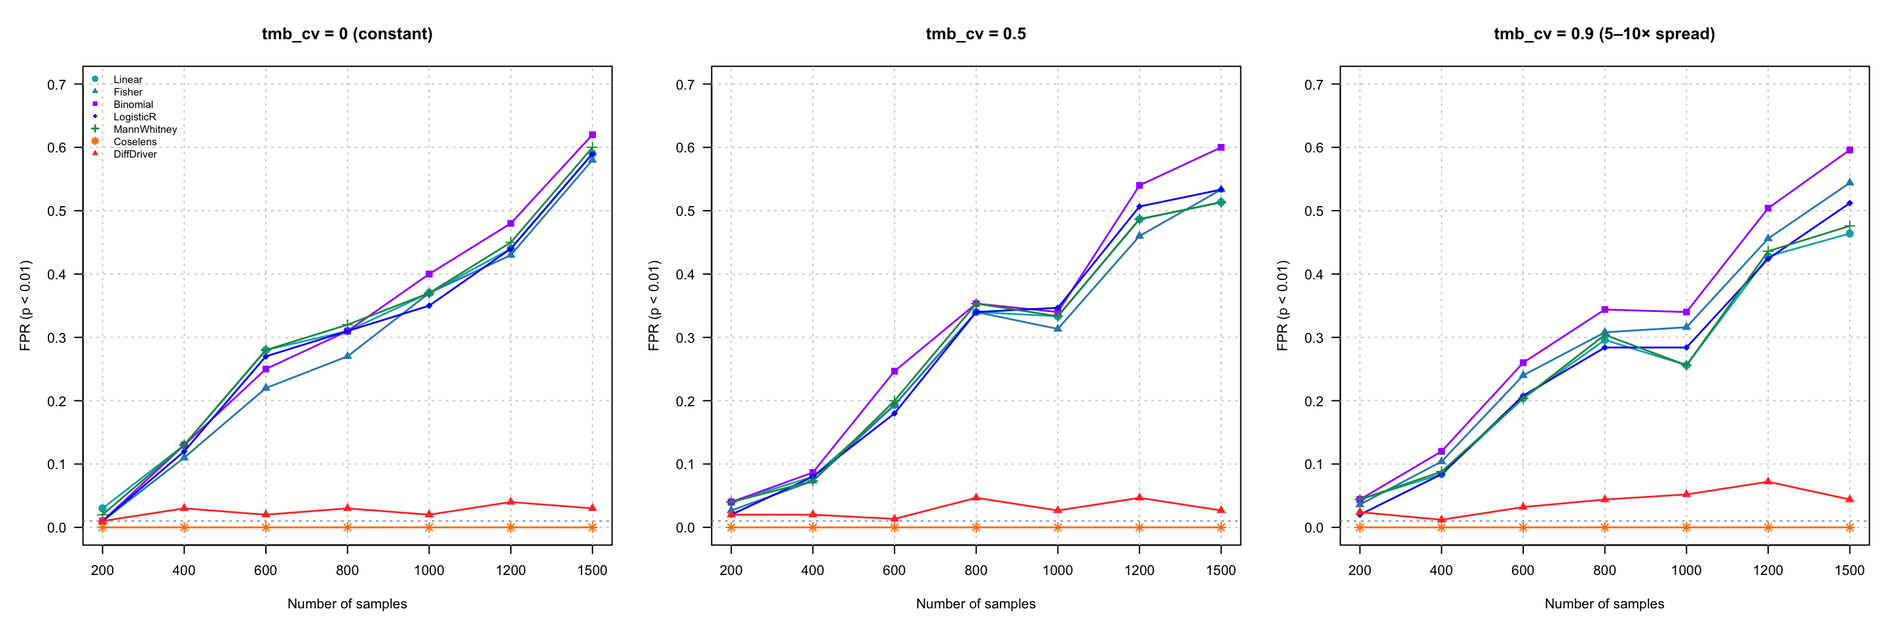
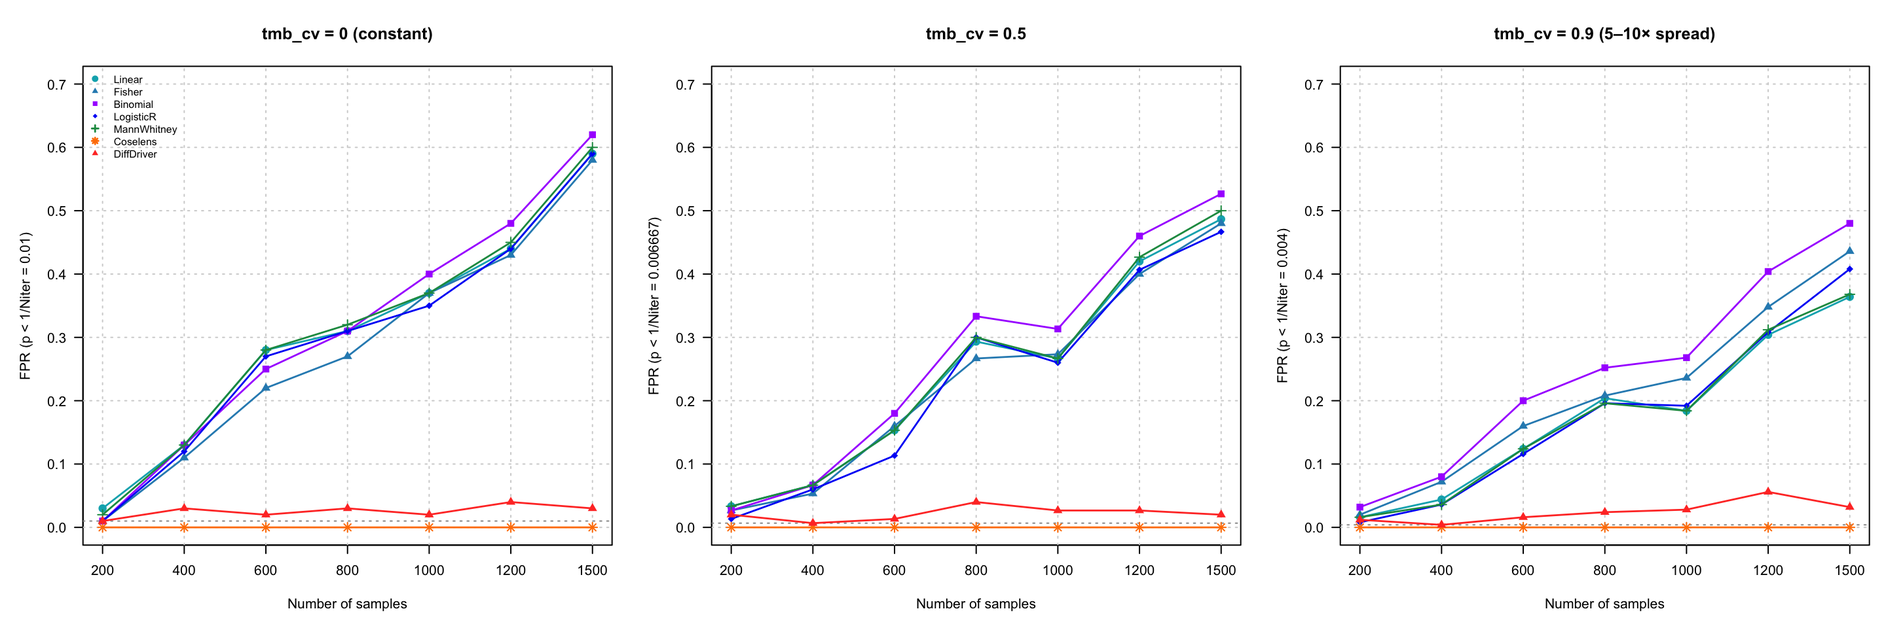
Assess FPR at alpha = 1/Niter (Monte-Carlo-resolution threshold)
Use a significance cutoff of alpha = 1/Niter per panel (the finest level
resolvable with Niter iterations; a calibrated test expects one false positive),
instead of a fixed p<0.01. Reference line and axis labels now show each panel's
alpha (0.01 at 100 iters, 0.0067 at 150, 0.004 at 250, 0.02 at 50). Conclusions
unchanged; updated affected numbers: DiffDriver variable-burden max <=6% (was <=7%
at 0.01), continuous <=4% (looser 0.02 threshold), count-based unchanged. 100-iter
panels and the main Simulation-BMR page are numerically unchanged (1/100 = 0.01).

diff --git a/docs/Simulation-BMR-variations.html b/docs/Simulation-BMR-variations.html
@@ -633,15 +633,15 @@ project makes it easier to run your code on other machines.</p>
 <div class="panel panel-default">
 <div class="panel-heading">
 <p class="panel-title">
-<a data-toggle="collapse" data-parent="#workflowr-checks" href="#strongRepositoryversionstrongahrefhttpsgithubcomszhaolabDiffDriverPAPERtree24f536118b4112801e99c02b93eb6101e2579ea9targetblank24f5361a">
+<a data-toggle="collapse" data-parent="#workflowr-checks" href="#strongRepositoryversionstrongahrefhttpsgithubcomszhaolabDiffDriverPAPERtreecefd056cdf1ceb7c2950c221e951dc0f9ba1e165targetblankcefd056a">
 <span class="glyphicon glyphicon-ok text-success"
 aria-hidden="true"></span> <strong>Repository version:</strong>
-<a href="https://github.com/szhaolab/DiffDriver-PAPER/tree/24f536118b4112801e99c02b93eb6101e2579ea9" target="_blank">24f5361</a>
+<a href="https://github.com/szhaolab/DiffDriver-PAPER/tree/cefd056cdf1ceb7c2950c221e951dc0f9ba1e165" target="_blank">cefd056</a>
 </a>
 </p>
 </div>
 <div
[2 lines of base64/hex data omitted]
 class="panel-collapse collapse">
 <div class="panel-body">
 <p>
@@ -651,7 +651,7 @@ reproducibility.
 </p>
 <p>
 The results in this page were generated with repository version
-<a href="https://github.com/szhaolab/DiffDriver-PAPER/tree/24f536118b4112801e99c02b93eb6101e2579ea9" target="_blank">24f5361</a>.
+<a href="https://github.com/szhaolab/DiffDriver-PAPER/tree/cefd056cdf1ceb7c2950c221e951dc0f9ba1e165" target="_blank">cefd056</a>.
 See the <em>Past versions</em> tab to see a history of the changes made
 to the R Markdown and HTML files.
 </p>
@@ -678,9 +678,7 @@ Untracked files:
 
 Unstaged changes:
     Modified:   analysis/Simulation-BMR-variations.Rmd
-    Modified:   code/consolidate_bmr_variations.R
-    Modified:   code/simulate_bmr_variations.R
-    Modified:   data/pppower_bmr_variations.Rd
+    Modified:   analysis/Simulation-BMR.Rmd
 
 </code></pre>
 <p>
@@ -726,6 +724,40 @@ Message
 </tr>
 </thead>
 <tbody>
+<tr>
+<td>
+Rmd
+</td>
+<td>
+<a href="https://github.com/szhaolab/DiffDriver-PAPER/blob/cefd056cdf1ceb7c2950c221e951dc0f9ba1e165/analysis/Simulation-BMR-variations.Rmd" target="_blank">cefd056</a>
+</td>
+<td>
+Siming
+</td>
+<td>
+2026-07-26
+</td>
+<td>
+Add iterations to variable-burden variations to reduce noise
+</td>
+</tr>
+<tr>
+<td>
+html
+</td>
+<td>
+<a href="https://rawcdn.githack.com/szhaolab/DiffDriver-PAPER/cefd056cdf1ceb7c2950c221e951dc0f9ba1e165/docs/Simulation-BMR-variations.html" target="_blank">cefd056</a>
+</td>
+<td>
+Siming
+</td>
+<td>
+2026-07-26
+</td>
+<td>
+Add iterations to variable-burden variations to reduce noise
+</td>
+</tr>
 <tr>
 <td>
 Rmd
@@ -856,8 +888,12 @@ it from a per-cohort simulated silent (synonymous) count matrix
 <code>N_syn</code> per site), exactly as on real data. Each variation
 reruns the full 7-method benchmark (100 iterations — 150 and 250 for the
 two variable-burden settings, 50 for the continuous variant) over N =
-200–1500 and we plot the false-positive rate (FPR, p &lt; 0.01)
-vs. sample size.</p>
+200–1500 and we plot the false-positive rate (FPR) vs. sample size. FPR
+is assessed at a significance threshold <strong>α = 1/Niter</strong> —
+the finest level resolvable with <code>Niter</code> iterations, at which
+a well-calibrated test yields an expected one false positive — so the
+dashed reference line marks the calibrated level for each panel (0.01 at
+100 iterations, 0.0067 at 150, 0.004 at 250, 0.02 at 50).</p>
 <p>The knobs live in <code>code/simulate_functions.R</code>
 (<code>build_confounded_bmr</code>’s <code>tmb_cv</code> for per-sample
 burden; <code>simulate_confounding</code>’s <code>binary = FALSE</code>
@@ -870,15 +906,19 @@ strength), the estimated-background helpers in
 <span id="cb2-3"><a href="#cb2-3" tabindex="-1"></a>MCOL <span class="ot">&lt;-</span> <span class="fu">c</span>(<span class="at">Linear=</span><span class="st">&quot;#00AFBB&quot;</span>, <span class="at">Fisher=</span><span class="st">&quot;#2b8cbe&quot;</span>, <span class="at">Binomial=</span><span class="st">&quot;#aa00ff&quot;</span>, <span class="at">LogisticR=</span><span class="st">&quot;#0001f6&quot;</span>,</span>
 <span id="cb2-4"><a href="#cb2-4" tabindex="-1"></a>          <span class="at">MannWhitney=</span><span class="st">&quot;#1a9850&quot;</span>, <span class="at">Coselens=</span><span class="st">&quot;#ff7f00&quot;</span>, <span class="at">DiffDriver=</span><span class="st">&quot;#FF3D2E&quot;</span>)</span>
 <span id="cb2-5"><a href="#cb2-5" tabindex="-1"></a>MPCH <span class="ot">&lt;-</span> <span class="fu">c</span>(<span class="at">Linear=</span><span class="dv">19</span>, <span class="at">Fisher=</span><span class="dv">17</span>, <span class="at">Binomial=</span><span class="dv">15</span>, <span class="at">LogisticR=</span><span class="dv">18</span>, <span class="at">MannWhitney=</span><span class="dv">3</span>, <span class="at">Coselens=</span><span class="dv">8</span>, <span class="at">DiffDriver=</span><span class="dv">17</span>)</span>
-<span id="cb2-6"><a href="#cb2-6" tabindex="-1"></a>fp_by_size <span class="ot">&lt;-</span> <span class="cf">function</span>(vlist, m) <span class="fu">sapply</span>(vlist, <span class="cf">function</span>(d) <span class="cf">if</span> (<span class="fu">is.null</span>(d)) <span class="cn">NA</span> <span class="cf">else</span> <span class="fu">mean</span>(d[[m]] <span class="sc">&lt;</span> <span class="fl">0.01</span>, <span class="at">na.rm =</span> <span class="cn">TRUE</span>))</span>
-<span id="cb2-7"><a href="#cb2-7" tabindex="-1"></a>plot_fp <span class="ot">&lt;-</span> <span class="cf">function</span>(vlist, <span class="at">title =</span> <span class="st">&quot;&quot;</span>, <span class="at">methods =</span> <span class="fu">names</span>(MCOL), <span class="at">legend =</span> <span class="cn">TRUE</span>, <span class="at">ymax =</span> <span class="fl">0.7</span>) {</span>
-<span id="cb2-8"><a href="#cb2-8" tabindex="-1"></a>  x <span class="ot">&lt;-</span> <span class="fu">seq_along</span>(SIZES)</span>
-<span id="cb2-9"><a href="#cb2-9" tabindex="-1"></a>  <span class="fu">plot</span>(<span class="cn">NA</span>, <span class="at">xlim =</span> <span class="fu">c</span>(<span class="dv">1</span>, <span class="fu">length</span>(SIZES)), <span class="at">ylim =</span> <span class="fu">c</span>(<span class="dv">0</span>, ymax), <span class="at">xaxt =</span> <span class="st">&quot;n&quot;</span>,</span>
-<span id="cb2-10"><a href="#cb2-10" tabindex="-1"></a>       <span class="at">xlab =</span> <span class="st">&quot;Number of samples&quot;</span>, <span class="at">ylab =</span> <span class="st">&quot;FPR (p &lt; 0.01)&quot;</span>, <span class="at">main =</span> title, <span class="at">las =</span> <span class="dv">1</span>)</span>
-<span id="cb2-11"><a href="#cb2-11" tabindex="-1"></a>  <span class="fu">axis</span>(<span class="dv">1</span>, x, SIZES); <span class="fu">grid</span>(); <span class="fu">abline</span>(<span class="at">h =</span> <span class="fl">0.01</span>, <span class="at">lty =</span> <span class="dv">3</span>, <span class="at">col =</span> <span class="st">&quot;grey60&quot;</span>)</span>
-<span id="cb2-12"><a href="#cb2-12" tabindex="-1"></a>  <span class="cf">for</span> (m <span class="cf">in</span> methods) { y <span class="ot">&lt;-</span> <span class="fu">fp_by_size</span>(vlist, m); <span class="fu">lines</span>(x, y, <span class="at">col =</span> MCOL[m], <span class="at">lwd =</span> <span class="fl">1.4</span>); <span class="fu">points</span>(x, y, <span class="at">col =</span> MCOL[m], <span class="at">pch =</span> MPCH[m], <span class="at">cex =</span> <span class="fl">1.1</span>) }</span>
-<span id="cb2-13"><a href="#cb2-13" tabindex="-1"></a>  <span class="cf">if</span> (legend) <span class="fu">legend</span>(<span class="st">&quot;topleft&quot;</span>, methods, <span class="at">col =</span> MCOL[methods], <span class="at">pch =</span> MPCH[methods], <span class="at">lwd =</span> <span class="fl">1.4</span>, <span class="at">lty =</span> <span class="cn">NA</span>, <span class="at">bty =</span> <span class="st">&quot;n&quot;</span>, <span class="at">cex =</span> <span class="fl">0.75</span>)</span>
-<span id="cb2-14"><a href="#cb2-14" tabindex="-1"></a>}</span></code></pre></div>
+<span id="cb2-6"><a href="#cb2-6" tabindex="-1"></a><span class="co"># Significance threshold alpha = 1/Niter: the finest level resolvable with Niter</span></span>
+<span id="cb2-7"><a href="#cb2-7" tabindex="-1"></a><span class="co"># iterations (a calibrated test then yields an expected one false positive), so the</span></span>
+<span id="cb2-8"><a href="#cb2-8" tabindex="-1"></a><span class="co"># dashed reference line marks the calibrated level for each panel.</span></span>
+<span id="cb2-9"><a href="#cb2-9" tabindex="-1"></a>alpha_of <span class="ot">&lt;-</span> <span class="cf">function</span>(vlist) { nn <span class="ot">&lt;-</span> <span class="fu">vapply</span>(vlist, <span class="cf">function</span>(d) <span class="cf">if</span> (<span class="fu">is.null</span>(d)) <span class="cn">NA_integer_</span> <span class="cf">else</span> <span class="fu">nrow</span>(d), <span class="fu">integer</span>(<span class="dv">1</span>)); <span class="dv">1</span><span class="sc">/</span>stats<span class="sc">::</span><span class="fu">median</span>(nn, <span class="at">na.rm =</span> <span class="cn">TRUE</span>) }</span>
+<span id="cb2-10"><a href="#cb2-10" tabindex="-1"></a>fp_by_size <span class="ot">&lt;-</span> <span class="cf">function</span>(vlist, m) <span class="fu">sapply</span>(vlist, <span class="cf">function</span>(d) <span class="cf">if</span> (<span class="fu">is.null</span>(d)) <span class="cn">NA</span> <span class="cf">else</span> <span class="fu">mean</span>(d[[m]] <span class="sc">&lt;</span> <span class="dv">1</span><span class="sc">/</span><span class="fu">nrow</span>(d), <span class="at">na.rm =</span> <span class="cn">TRUE</span>))</span>
+<span id="cb2-11"><a href="#cb2-11" tabindex="-1"></a>plot_fp <span class="ot">&lt;-</span> <span class="cf">function</span>(vlist, <span class="at">title =</span> <span class="st">&quot;&quot;</span>, <span class="at">methods =</span> <span class="fu">names</span>(MCOL), <span class="at">legend =</span> <span class="cn">TRUE</span>, <span class="at">ymax =</span> <span class="fl">0.7</span>) {</span>
+<span id="cb2-12"><a href="#cb2-12" tabindex="-1"></a>  x <span class="ot">&lt;-</span> <span class="fu">seq_along</span>(SIZES); al <span class="ot">&lt;-</span> <span class="fu">alpha_of</span>(vlist)</span>
+<span id="cb2-13"><a href="#cb2-13" tabindex="-1"></a>  <span class="fu">plot</span>(<span class="cn">NA</span>, <span class="at">xlim =</span> <span class="fu">c</span>(<span class="dv">1</span>, <span class="fu">length</span>(SIZES)), <span class="at">ylim =</span> <span class="fu">c</span>(<span class="dv">0</span>, ymax), <span class="at">xaxt =</span> <span class="st">&quot;n&quot;</span>,</span>
+<span id="cb2-14"><a href="#cb2-14" tabindex="-1"></a>       <span class="at">xlab =</span> <span class="st">&quot;Number of samples&quot;</span>, <span class="at">ylab =</span> <span class="fu">sprintf</span>(<span class="st">&quot;FPR (p &lt; 1/Niter = %.4g)&quot;</span>, al), <span class="at">main =</span> title, <span class="at">las =</span> <span class="dv">1</span>)</span>
+<span id="cb2-15"><a href="#cb2-15" tabindex="-1"></a>  <span class="fu">axis</span>(<span class="dv">1</span>, x, SIZES); <span class="fu">grid</span>(); <span class="fu">abline</span>(<span class="at">h =</span> al, <span class="at">lty =</span> <span class="dv">3</span>, <span class="at">col =</span> <span class="st">&quot;grey60&quot;</span>)</span>
+<span id="cb2-16"><a href="#cb2-16" tabindex="-1"></a>  <span class="cf">for</span> (m <span class="cf">in</span> methods) { y <span class="ot">&lt;-</span> <span class="fu">fp_by_size</span>(vlist, m); <span class="fu">lines</span>(x, y, <span class="at">col =</span> MCOL[m], <span class="at">lwd =</span> <span class="fl">1.4</span>); <span class="fu">points</span>(x, y, <span class="at">col =</span> MCOL[m], <span class="at">pch =</span> MPCH[m], <span class="at">cex =</span> <span class="fl">1.1</span>) }</span>
+<span id="cb2-17"><a href="#cb2-17" tabindex="-1"></a>  <span class="cf">if</span> (legend) <span class="fu">legend</span>(<span class="st">&quot;topleft&quot;</span>, methods, <span class="at">col =</span> MCOL[methods], <span class="at">pch =</span> MPCH[methods], <span class="at">lwd =</span> <span class="fl">1.4</span>, <span class="at">lty =</span> <span class="cn">NA</span>, <span class="at">bty =</span> <span class="st">&quot;n&quot;</span>, <span class="at">cex =</span> <span class="fl">0.75</span>)</span>
+<span id="cb2-18"><a href="#cb2-18" tabindex="-1"></a>}</span></code></pre></div>
 </div>
 <div id="baseline" class="section level2">
 <h2>Baseline</h2>
@@ -979,6 +1019,17 @@ Date
 </tr>
 </thead>
 <tbody>
+<tr>
+<td>
+<a href="https://github.com/szhaolab/DiffDriver-PAPER/blob/cefd056cdf1ceb7c2950c221e951dc0f9ba1e165/docs/figure/Simulation-BMR-variations.Rmd/burden-1.png" target="_blank">cefd056</a>
+</td>
+<td>
+Siming
+</td>
+<td>
+2026-07-26
+</td>
+</tr>
 <tr>
 <td>
 <a href="https://github.com/szhaolab/DiffDriver-PAPER/blob/3f9450ac554000281418889e9b9162180202709b/docs/figure/Simulation-BMR-variations.Rmd/burden-1.png" target="_blank">3f9450a</a>
@@ -1082,9 +1133,11 @@ count-based methods dichotomize the phenotype at its mean (as in the
 power simulation), Coselens splits at the median, and DiffDriver uses
 the continuous <code>ddmodel</code>.</p>
 <p><strong>Result:</strong> the confounding still fools the count-based
-methods (rising toward ~40% at N = 1500 — somewhat lower than the binary
-case because the dichotomization discards the continuous gradient),
-while DiffDriver (≤ 2%) and Coselens (≈ 0%) stay controlled.</p>
+methods (rising toward ~40–55% at N = 1500 — somewhat lower than the
+binary case because the dichotomization discards the continuous
+gradient), while DiffDriver (≤ 4%) and Coselens (≈ 0%) stay controlled.
+(This variant uses 50 iterations, so its threshold α = 1/50 = 0.02 is
+the loosest of the panels.)</p>
 <div class="sourceCode" id="cb6"><pre class="sourceCode r"><code class="sourceCode r"><span id="cb6-1"><a href="#cb6-1" tabindex="-1"></a><span class="fu">plot_fp</span>(bmrvar<span class="sc">$</span>partA<span class="sc">$</span>continuous, <span class="st">&quot;Continuous phenotype, R² = 0.78&quot;</span>)</span></code></pre></div>
 <p><img src="figure/Simulation-BMR-variations.Rmd/continuous-1.png" alt="" width="576" style="display: block; margin: auto;" /></p>
 <p>
@@ -1143,15 +1196,16 @@ signatures, versus the true 6, all keep the FPR at ~1–4% across sample
 sizes. The signature-count choice is not a fragile knob.</p>
 <div class="sourceCode" id="cb7"><pre class="sourceCode r"><code class="sourceCode r"><span id="cb7-1"><a href="#cb7-1" tabindex="-1"></a>ks <span class="ot">&lt;-</span> <span class="fu">names</span>(bmrvar<span class="sc">$</span>partB); kcols <span class="ot">&lt;-</span> <span class="fu">c</span>(<span class="st">&quot;#1b9e77&quot;</span>,<span class="st">&quot;#d95f02&quot;</span>,<span class="st">&quot;#7570b3&quot;</span>,<span class="st">&quot;#e7298a&quot;</span>,<span class="st">&quot;#66a61e&quot;</span>)</span>
 <span id="cb7-2"><a href="#cb7-2" tabindex="-1"></a>x <span class="ot">&lt;-</span> <span class="fu">seq_along</span>(SIZES)</span>
-<span id="cb7-3"><a href="#cb7-3" tabindex="-1"></a><span class="fu">plot</span>(<span class="cn">NA</span>, <span class="at">xlim =</span> <span class="fu">c</span>(<span class="dv">1</span>, <span class="fu">length</span>(SIZES)), <span class="at">ylim =</span> <span class="fu">c</span>(<span class="dv">0</span>, <span class="fl">0.15</span>), <span class="at">xaxt =</span> <span class="st">&quot;n&quot;</span>,</span>
-<span id="cb7-4"><a href="#cb7-4" tabindex="-1"></a>     <span class="at">xlab =</span> <span class="st">&quot;Number of samples&quot;</span>, <span class="at">ylab =</span> <span class="st">&quot;DiffDriver FPR (p &lt; 0.01)&quot;</span>,</span>
-<span id="cb7-5"><a href="#cb7-5" tabindex="-1"></a>     <span class="at">main =</span> <span class="st">&quot;Estimated background: robustness to # signatures (true = 6)&quot;</span>, <span class="at">las =</span> <span class="dv">1</span>)</span>
-<span id="cb7-6"><a href="#cb7-6" tabindex="-1"></a><span class="fu">axis</span>(<span class="dv">1</span>, x, SIZES); <span class="fu">grid</span>(); <span class="fu">abline</span>(<span class="at">h =</span> <span class="fl">0.01</span>, <span class="at">lty =</span> <span class="dv">3</span>, <span class="at">col =</span> <span class="st">&quot;grey60&quot;</span>)</span>
-<span id="cb7-7"><a href="#cb7-7" tabindex="-1"></a><span class="cf">for</span> (i <span class="cf">in</span> <span class="fu">seq_along</span>(ks)) {</span>
-<span id="cb7-8"><a href="#cb7-8" tabindex="-1"></a>  y <span class="ot">&lt;-</span> <span class="fu">sapply</span>(bmrvar<span class="sc">$</span>partB[[ks[i]]], <span class="cf">function</span>(d) <span class="fu">mean</span>(d<span class="sc">$</span>diff_est <span class="sc">&lt;</span> <span class="fl">0.01</span>, <span class="at">na.rm =</span> <span class="cn">TRUE</span>))</span>
-<span id="cb7-9"><a href="#cb7-9" tabindex="-1"></a>  <span class="fu">lines</span>(x, y, <span class="at">col =</span> kcols[i], <span class="at">lwd =</span> <span class="fl">1.5</span>); <span class="fu">points</span>(x, y, <span class="at">col =</span> kcols[i], <span class="at">pch =</span> <span class="dv">19</span>)</span>
-<span id="cb7-10"><a href="#cb7-10" tabindex="-1"></a>}</span>
-<span id="cb7-11"><a href="#cb7-11" tabindex="-1"></a><span class="fu">legend</span>(<span class="st">&quot;topleft&quot;</span>, <span class="fu">paste</span>(<span class="st">&quot;k =&quot;</span>, <span class="fu">sub</span>(<span class="st">&quot;k&quot;</span>, <span class="st">&quot;&quot;</span>, ks)), <span class="at">col =</span> kcols, <span class="at">pch =</span> <span class="dv">19</span>, <span class="at">lwd =</span> <span class="fl">1.5</span>, <span class="at">bty =</span> <span class="st">&quot;n&quot;</span>)</span></code></pre></div>
+<span id="cb7-3"><a href="#cb7-3" tabindex="-1"></a>al <span class="ot">&lt;-</span> <span class="dv">1</span><span class="sc">/</span><span class="fu">median</span>(<span class="fu">sapply</span>(bmrvar<span class="sc">$</span>partB[[<span class="dv">1</span>]], nrow))   <span class="co"># alpha = 1/Niter (100 iters -&gt; 0.01)</span></span>
+<span id="cb7-4"><a href="#cb7-4" tabindex="-1"></a><span class="fu">plot</span>(<span class="cn">NA</span>, <span class="at">xlim =</span> <span class="fu">c</span>(<span class="dv">1</span>, <span class="fu">length</span>(SIZES)), <span class="at">ylim =</span> <span class="fu">c</span>(<span class="dv">0</span>, <span class="fl">0.15</span>), <span class="at">xaxt =</span> <span class="st">&quot;n&quot;</span>,</span>
+<span id="cb7-5"><a href="#cb7-5" tabindex="-1"></a>     <span class="at">xlab =</span> <span class="st">&quot;Number of samples&quot;</span>, <span class="at">ylab =</span> <span class="fu">sprintf</span>(<span class="st">&quot;DiffDriver FPR (p &lt; 1/Niter = %.4g)&quot;</span>, al),</span>
+<span id="cb7-6"><a href="#cb7-6" tabindex="-1"></a>     <span class="at">main =</span> <span class="st">&quot;Estimated background: robustness to # signatures (true = 6)&quot;</span>, <span class="at">las =</span> <span class="dv">1</span>)</span>
+<span id="cb7-7"><a href="#cb7-7" tabindex="-1"></a><span class="fu">axis</span>(<span class="dv">1</span>, x, SIZES); <span class="fu">grid</span>(); <span class="fu">abline</span>(<span class="at">h =</span> al, <span class="at">lty =</span> <span class="dv">3</span>, <span class="at">col =</span> <span class="st">&quot;grey60&quot;</span>)</span>
+<span id="cb7-8"><a href="#cb7-8" tabindex="-1"></a><span class="cf">for</span> (i <span class="cf">in</span> <span class="fu">seq_along</span>(ks)) {</span>
+<span id="cb7-9"><a href="#cb7-9" tabindex="-1"></a>  y <span class="ot">&lt;-</span> <span class="fu">sapply</span>(bmrvar<span class="sc">$</span>partB[[ks[i]]], <span class="cf">function</span>(d) <span class="fu">mean</span>(d<span class="sc">$</span>diff_est <span class="sc">&lt;</span> <span class="dv">1</span><span class="sc">/</span><span class="fu">nrow</span>(d), <span class="at">na.rm =</span> <span class="cn">TRUE</span>))</span>
+<span id="cb7-10"><a href="#cb7-10" tabindex="-1"></a>  <span class="fu">lines</span>(x, y, <span class="at">col =</span> kcols[i], <span class="at">lwd =</span> <span class="fl">1.5</span>); <span class="fu">points</span>(x, y, <span class="at">col =</span> kcols[i], <span class="at">pch =</span> <span class="dv">19</span>)</span>
+<span id="cb7-11"><a href="#cb7-11" tabindex="-1"></a>}</span>
+<span id="cb7-12"><a href="#cb7-12" tabindex="-1"></a><span class="fu">legend</span>(<span class="st">&quot;topleft&quot;</span>, <span class="fu">paste</span>(<span class="st">&quot;k =&quot;</span>, <span class="fu">sub</span>(<span class="st">&quot;k&quot;</span>, <span class="st">&quot;&quot;</span>, ks)), <span class="at">col =</span> kcols, <span class="at">pch =</span> <span class="dv">19</span>, <span class="at">lwd =</span> <span class="fl">1.5</span>, <span class="at">bty =</span> <span class="st">&quot;n&quot;</span>)</span></code></pre></div>
 <p><img src="figure/Simulation-BMR-variations.Rmd/sigk-1.png" alt="" width="576" style="display: block; margin: auto;" /></p>
 <p>
 <button type="button" class="btn btn-default btn-xs btn-workflowr btn-workflowr-fig" data-toggle="collapse" data-target="#fig-sigk-1">
@@ -1196,6 +1250,8 @@ Siming
 <p>All methods <strong>estimate</strong> the background from the
 simulated silent count matrix (Coselens via <code>N_syn/Lsyn96</code>,
 DiffDriver via fastTopics), as on real data.</p>
+<p>FPR is measured at α = 1/Niter (see Overview); the “≈0%” / “≤x%”
+figures below are the maxima across N at that per-panel threshold.</p>
 <table>
 <colgroup>
 <col width="25%" />
@@ -1222,7 +1278,7 @@ DiffDriver via fastTopics), as on real data.</p>
 <td>Variable burden (tmb_cv 0.5, 0.9)</td>
 <td>still false-positive (~50–60%)</td>
 <td>controlled (≈0%)</td>
-<td>controlled (≤7%)</td>
+<td>controlled (≤6%)</td>
 </tr>
 <tr class="odd">
 <td>Confounding strength R²</td>
@@ -1232,9 +1288,9 @@ DiffDriver via fastTopics), as on real data.</p>
 </tr>
 <tr class="even">
 <td>Continuous phenotype</td>
-<td>false-positive (→~40%)</td>
+<td>false-positive (→~40–55%)</td>
 <td>controlled (≈0%)</td>
-<td>controlled (≤2%)</td>
+<td>controlled (≤4%)</td>
 </tr>
 <tr class="odd">
 <td># signatures (estimated bkg)</td>

diff --git a/docs/Simulation-BMR.html b/docs/Simulation-BMR.html
@@ -633,15 +633,15 @@ project makes it easier to run your code on other machines.</p>
 <div class="panel panel-default">
 <div class="panel-heading">
 <p class="panel-title">
-<a data-toggle="collapse" data-parent="#workflowr-checks" href="#strongRepositoryversionstrongahrefhttpsgithubcomszhaolabDiffDriverPAPERtreedfa3eb4ccb2daac76127e4f2ba68bdbec33204c8targetblankdfa3eb4a">
+<a data-toggle="collapse" data-parent="#workflowr-checks" href="#strongRepositoryversionstrongahrefhttpsgithubcomszhaolabDiffDriverPAPERtreecefd056cdf1ceb7c2950c221e951dc0f9ba1e165targetblankcefd056a">
 <span class="glyphicon glyphicon-ok text-success"
 aria-hidden="true"></span> <strong>Repository version:</strong>
-<a href="https://github.com/szhaolab/DiffDriver-PAPER/tree/dfa3eb4ccb2daac76127e4f2ba68bdbec33204c8" target="_blank">dfa3eb4</a>
+<a href="https://github.com/szhaolab/DiffDriver-PAPER/tree/cefd056cdf1ceb7c2950c221e951dc0f9ba1e165" target="_blank">cefd056</a>
 </a>
 </p>
 </div>
 <div
[2 lines of base64/hex data omitted]
 class="panel-collapse collapse">
 <div class="panel-body">
 <p>
@@ -651,7 +651,7 @@ reproducibility.
 </p>
 <p>
 The results in this page were generated with repository version
-<a href="https://github.com/szhaolab/DiffDriver-PAPER/tree/dfa3eb4ccb2daac76127e4f2ba68bdbec33204c8" target="_blank">dfa3eb4</a>.
+<a href="https://github.com/szhaolab/DiffDriver-PAPER/tree/cefd056cdf1ceb7c2950c221e951dc0f9ba1e165" target="_blank">cefd056</a>.
 See the <em>Past versions</em> tab to see a history of the changes made
 to the R Markdown and HTML files.
 </p>
@@ -679,7 +679,6 @@ Untracked files:
 Unstaged changes:
     Modified:   analysis/Simulation-BMR-variations.Rmd
     Modified:   analysis/Simulation-BMR.Rmd
-    Modified:   code/simulate_bmr_variations.R
 
 </code></pre>
 <p>
@@ -724,6 +723,40 @@ Message
 </tr>
 </thead>
 <tbody>
+<tr>
+<td>
+Rmd
+</td>
+<td>
+<a href="https://github.com/szhaolab/DiffDriver-PAPER/blob/2a3270efd6818b22acfc7cd58ea1db2f2b6cdacd/analysis/Simulation-BMR.Rmd" target="_blank">2a3270e</a>
+</td>
+<td>
+Siming
+</td>
+<td>
+2026-07-26
+</td>
+<td>
+Switch confounding main page to estimated background (drop true rate)
+</td>
+</tr>
+<tr>
+<td>
+html
+</td>
+<td>
+<a href="https://rawcdn.githack.com/szhaolab/DiffDriver-PAPER/2a3270efd6818b22acfc7cd58ea1db2f2b6cdacd/docs/Simulation-BMR.html" target="_blank">2a3270e</a>
+</td>
+<td>
+Siming
+</td>
+<td>
+2026-07-26
+</td>
+<td>
+Switch confounding main page to estimated background (drop true rate)
+</td>
+</tr>
 <tr>
 <td>
 Rmd
@@ -1217,34 +1250,74 @@ selection.</p>
 <span id="cb2-3"><a href="#cb2-3" tabindex="-1"></a><span class="fu">load</span>(<span class="st">&quot;data/pppower_estimatedBMR_bmr.Rd&quot;</span>)     <span class="co"># object `estBMR`, keyed by N (estimated background)</span></span>
 <span id="cb2-4"><a href="#cb2-4" tabindex="-1"></a><span class="fu">load</span>(<span class="st">&quot;data/pppower_mannwhitney_bmr.Rd&quot;</span>)      <span class="co"># object `mw`</span></span>
 <span id="cb2-5"><a href="#cb2-5" tabindex="-1"></a></span>
-<span id="cb2-6"><a href="#cb2-6" tabindex="-1"></a>fp   <span class="ot">&lt;-</span> <span class="cf">function</span>(p) <span class="fu">mean</span>(p <span class="sc">&lt;</span> <span class="fl">0.01</span>, <span class="at">na.rm =</span> <span class="cn">TRUE</span>)</span>
-<span id="cb2-7"><a href="#cb2-7" tabindex="-1"></a>rate <span class="ot">&lt;-</span> <span class="cf">function</span>(field) <span class="fu">sapply</span>(<span class="fu">as.character</span>(SIZES), <span class="cf">function</span>(n) <span class="fu">fp</span>(estBMR[[n]][[field]]))</span>
-<span id="cb2-8"><a href="#cb2-8" tabindex="-1"></a>cosE <span class="ot">&lt;-</span> <span class="fu">rate</span>(<span class="st">&quot;coselens_est&quot;</span>); ddE <span class="ot">&lt;-</span> <span class="fu">rate</span>(<span class="st">&quot;diff_est&quot;</span>)   <span class="co"># estimated-background methods</span></span>
-<span id="cb2-9"><a href="#cb2-9" tabindex="-1"></a></span>
-<span id="cb2-10"><a href="#cb2-10" tabindex="-1"></a><span class="co"># count-based benchmarks (do not use a background rate; from the archived runs)</span></span>
-<span id="cb2-11"><a href="#cb2-11" tabindex="-1"></a>lin <span class="ot">&lt;-</span> fis <span class="ot">&lt;-</span> bin <span class="ot">&lt;-</span> lr <span class="ot">&lt;-</span> mw_fp <span class="ot">&lt;-</span> <span class="fu">numeric</span>(<span class="fu">length</span>(SIZES))</span>
-<span id="cb2-12"><a href="#cb2-12" tabindex="-1"></a><span class="cf">for</span> (i <span class="cf">in</span> <span class="fu">seq_along</span>(SIZES)) {</span>
-<span id="cb2-13"><a href="#cb2-13" tabindex="-1"></a>  N <span class="ot">&lt;-</span> SIZES[i]</span>
-<span id="cb2-14"><a href="#cb2-14" tabindex="-1"></a>  o <span class="ot">&lt;-</span> <span class="fu">new.env</span>(); <span class="fu">load</span>(<span class="fu">sprintf</span>(<span class="st">&quot;data/bmr_archive/other/pppower_betaf0=1_sample%d_0.5_0.Rd&quot;</span>, N), <span class="at">envir =</span> o)</span>
-<span id="cb2-15"><a href="#cb2-15" tabindex="-1"></a>  s <span class="ot">&lt;-</span> o<span class="sc">$</span>simuresother</span>
-<span id="cb2-16"><a href="#cb2-16" tabindex="-1"></a>  lin[i] <span class="ot">&lt;-</span> <span class="fu">fp</span>(s<span class="sc">$</span>m1.pvalue); fis[i] <span class="ot">&lt;-</span> <span class="fu">fp</span>(s<span class="sc">$</span>m2.pvalue); bin[i] <span class="ot">&lt;-</span> <span class="fu">fp</span>(s<span class="sc">$</span>m3.pvalue); lr[i] <span class="ot">&lt;-</span> <span class="fu">fp</span>(s<span class="sc">$</span>m4.pvalue)</span>
-<span id="cb2-17"><a href="#cb2-17" tabindex="-1"></a>  mw_fp[i] <span class="ot">&lt;-</span> <span class="fu">fp</span>(mw[[<span class="fu">as.character</span>(N)]]<span class="sc">$</span>mannwhitney.pvalue)</span>
-<span id="cb2-18"><a href="#cb2-18" tabindex="-1"></a>}</span>
-<span id="cb2-19"><a href="#cb2-19" tabindex="-1"></a></span>
-<span id="cb2-20"><a href="#cb2-20" tabindex="-1"></a>outdt <span class="ot">&lt;-</span> <span class="fu">rbind</span>(<span class="at">Linear =</span> lin, <span class="at">Fisher =</span> fis, <span class="at">Binomial =</span> bin, <span class="at">LogisticR =</span> lr,</span>
-<span id="cb2-21"><a href="#cb2-21" tabindex="-1"></a>               <span class="at">MannWhitney =</span> mw_fp, <span class="at">Coselens =</span> cosE, <span class="at">DiffDriver =</span> ddE)</span>
-<span id="cb2-22"><a href="#cb2-22" tabindex="-1"></a><span class="fu">colnames</span>(outdt) <span class="ot">&lt;-</span> SIZES</span>
-<span id="cb2-23"><a href="#cb2-23" tabindex="-1"></a>mycol <span class="ot">&lt;-</span> <span class="fu">c</span>(<span class="st">&quot;#00AFBB&quot;</span>,<span class="st">&quot;#2b8cbe&quot;</span>,<span class="st">&quot;#aa00ff&quot;</span>,<span class="st">&quot;#0001f6&quot;</span>,<span class="st">&quot;#1a9850&quot;</span>,<span class="st">&quot;#ff7f00&quot;</span>,<span class="st">&quot;#FF3D2E&quot;</span>)</span>
-<span id="cb2-24"><a href="#cb2-24" tabindex="-1"></a>mypch <span class="ot">&lt;-</span> <span class="fu">c</span>(<span class="dv">19</span>,<span class="dv">19</span>,<span class="dv">19</span>,<span class="dv">19</span>,<span class="dv">3</span>,<span class="dv">8</span>,<span class="dv">17</span>)</span>
-<span id="cb2-25"><a href="#cb2-25" tabindex="-1"></a>x <span class="ot">&lt;-</span> <span class="fu">seq_along</span>(SIZES)</span>
-<span id="cb2-26"><a href="#cb2-26" tabindex="-1"></a><span class="fu">plot</span>(x, <span class="at">ylim =</span> <span class="fu">c</span>(<span class="dv">0</span>,<span class="dv">1</span>), <span class="at">col =</span> <span class="st">&quot;white&quot;</span>, <span class="at">ylab =</span> <span class="st">&quot;False positive rate (p &lt; 0.01)&quot;</span>,</span>
-<span id="cb2-27"><a href="#cb2-27" tabindex="-1"></a>     <span class="at">xlab =</span> <span class="st">&quot;Number of samples&quot;</span>, <span class="at">yaxt =</span> <span class="st">&quot;n&quot;</span>, <span class="at">xaxt =</span> <span class="st">&quot;n&quot;</span>)</span>
-<span id="cb2-28"><a href="#cb2-28" tabindex="-1"></a><span class="fu">title</span>(<span class="st">&quot;Phenotype–signature confounding (background estimated from silent mutations)&quot;</span>)</span>
-<span id="cb2-29"><a href="#cb2-29" tabindex="-1"></a><span class="fu">axis</span>(<span class="dv">2</span>, <span class="at">at =</span> <span class="fu">seq</span>(<span class="dv">0</span>,<span class="dv">1</span>,<span class="fl">0.1</span>), <span class="at">las =</span> <span class="dv">2</span>); <span class="fu">axis</span>(<span class="dv">1</span>, <span class="at">at =</span> x, <span class="at">labels =</span> SIZES); <span class="fu">grid</span>()</span>
-<span id="cb2-30"><a href="#cb2-30" tabindex="-1"></a><span class="fu">abline</span>(<span class="at">h =</span> <span class="fl">0.01</span>, <span class="at">lty =</span> <span class="dv">3</span>, <span class="at">col =</span> <span class="st">&quot;grey60&quot;</span>)</span>
-<span id="cb2-31"><a href="#cb2-31" tabindex="-1"></a><span class="cf">for</span> (r <span class="cf">in</span> <span class="dv">1</span><span class="sc">:</span><span class="dv">7</span>) { <span class="fu">lines</span>(x, outdt[r,], <span class="at">col =</span> mycol[r]); <span class="fu">points</span>(x, outdt[r,], <span class="at">col =</span> mycol[r], <span class="at">pch =</span> mypch[r], <span class="at">cex =</span> <span class="fl">1.3</span>) }</span>
-<span id="cb2-32"><a href="#cb2-32" tabindex="-1"></a><span class="fu">legend</span>(<span class="st">&quot;topleft&quot;</span>, <span class="fu">rownames</span>(outdt), <span class="at">col =</span> mycol, <span class="at">lwd =</span> <span class="dv">1</span>, <span class="at">bty =</span> <span class="st">&quot;n&quot;</span>, <span class="at">lty =</span> <span class="cn">NA</span>, <span class="at">pch =</span> mypch)</span></code></pre></div>
+<span id="cb2-6"><a href="#cb2-6" tabindex="-1"></a><span class="co"># significance threshold alpha = 1/Niter (Niter = 100 -&gt; 0.01): the finest level</span></span>
+<span id="cb2-7"><a href="#cb2-7" tabindex="-1"></a><span class="co"># resolvable with Niter iterations, where a calibrated test expects one false positive</span></span>
+<span id="cb2-8"><a href="#cb2-8" tabindex="-1"></a>alpha <span class="ot">&lt;-</span> <span class="dv">1</span><span class="sc">/</span>Nsim</span>
+<span id="cb2-9"><a href="#cb2-9" tabindex="-1"></a>fp   <span class="ot">&lt;-</span> <span class="cf">function</span>(p) <span class="fu">mean</span>(p <span class="sc">&lt;</span> alpha, <span class="at">na.rm =</span> <span class="cn">TRUE</span>)</span>
+<span id="cb2-10"><a href="#cb2-10" tabindex="-1"></a>rate <span class="ot">&lt;-</span> <span class="cf">function</span>(field) <span class="fu">sapply</span>(<span class="fu">as.character</span>(SIZES), <span class="cf">function</span>(n) <span class="fu">fp</span>(estBMR[[n]][[field]]))</span>
+<span id="cb2-11"><a href="#cb2-11" tabindex="-1"></a>cosE <span class="ot">&lt;-</span> <span class="fu">rate</span>(<span class="st">&quot;coselens_est&quot;</span>); ddE <span class="ot">&lt;-</span> <span class="fu">rate</span>(<span class="st">&quot;diff_est&quot;</span>)   <span class="co"># estimated-background methods</span></span>
+<span id="cb2-12"><a href="#cb2-12" tabindex="-1"></a></span>
+<span id="cb2-13"><a href="#cb2-13" tabindex="-1"></a><span class="co"># count-based benchmarks (do not use a background rate; from the archived runs)</span></span>
+<span id="cb2-14"><a href="#cb2-14" tabindex="-1"></a>lin <span class="ot">&lt;-</span> fis <span class="ot">&lt;-</span> bin <span class="ot">&lt;-</span> lr <span class="ot">&lt;-</span> mw_fp <span class="ot">&lt;-</span> <span class="fu">numeric</span>(<span class="fu">length</span>(SIZES))</span>
+<span id="cb2-15"><a href="#cb2-15" tabindex="-1"></a><span class="cf">for</span> (i <span class="cf">in</span> <span class="fu">seq_along</span>(SIZES)) {</span>
+<span id="cb2-16"><a href="#cb2-16" tabindex="-1"></a>  N <span class="ot">&lt;-</span> SIZES[i]</span>
+<span id="cb2-17"><a href="#cb2-17" tabindex="-1"></a>  o <span class="ot">&lt;-</span> <span class="fu">new.env</span>(); <span class="fu">load</span>(<span class="fu">sprintf</span>(<span class="st">&quot;data/bmr_archive/other/pppower_betaf0=1_sample%d_0.5_0.Rd&quot;</span>, N), <span class="at">envir =</span> o)</span>
+<span id="cb2-18"><a href="#cb2-18" tabindex="-1"></a>  s <span class="ot">&lt;-</span> o<span class="sc">$</span>simuresother</span>
+<span id="cb2-19"><a href="#cb2-19" tabindex="-1"></a>  lin[i] <span class="ot">&lt;-</span> <span class="fu">fp</span>(s<span class="sc">$</span>m1.pvalue); fis[i] <span class="ot">&lt;-</span> <span class="fu">fp</span>(s<span class="sc">$</span>m2.pvalue); bin[i] <span class="ot">&lt;-</span> <span class="fu">fp</span>(s<span class="sc">$</span>m3.pvalue); lr[i] <span class="ot">&lt;-</span> <span class="fu">fp</span>(s<span class="sc">$</span>m4.pvalue)</span>
+<span id="cb2-20"><a href="#cb2-20" tabindex="-1"></a>  mw_fp[i] <span class="ot">&lt;-</span> <span class="fu">fp</span>(mw[[<span class="fu">as.character</span>(N)]]<span class="sc">$</span>mannwhitney.pvalue)</span>
+<span id="cb2-21"><a href="#cb2-21" tabindex="-1"></a>}</span>
+<span id="cb2-22"><a href="#cb2-22" tabindex="-1"></a></span>
+<span id="cb2-23"><a href="#cb2-23" tabindex="-1"></a>outdt <span class="ot">&lt;-</span> <span class="fu">rbind</span>(<span class="at">Linear =</span> lin, <span class="at">Fisher =</span> fis, <span class="at">Binomial =</span> bin, <span class="at">LogisticR =</span> lr,</span>
+<span id="cb2-24"><a href="#cb2-24" tabindex="-1"></a>               <span class="at">MannWhitney =</span> mw_fp, <span class="at">Coselens =</span> cosE, <span class="at">DiffDriver =</span> ddE)</span>
+<span id="cb2-25"><a href="#cb2-25" tabindex="-1"></a><span class="fu">colnames</span>(outdt) <span class="ot">&lt;-</span> SIZES</span>
+<span id="cb2-26"><a href="#cb2-26" tabindex="-1"></a>mycol <span class="ot">&lt;-</span> <span class="fu">c</span>(<span class="st">&quot;#00AFBB&quot;</span>,<span class="st">&quot;#2b8cbe&quot;</span>,<span class="st">&quot;#aa00ff&quot;</span>,<span class="st">&quot;#0001f6&quot;</span>,<span class="st">&quot;#1a9850&quot;</span>,<span class="st">&quot;#ff7f00&quot;</span>,<span class="st">&quot;#FF3D2E&quot;</span>)</span>
+<span id="cb2-27"><a href="#cb2-27" tabindex="-1"></a>mypch <span class="ot">&lt;-</span> <span class="fu">c</span>(<span class="dv">19</span>,<span class="dv">19</span>,<span class="dv">19</span>,<span class="dv">19</span>,<span class="dv">3</span>,<span class="dv">8</span>,<span class="dv">17</span>)</span>
+<span id="cb2-28"><a href="#cb2-28" tabindex="-1"></a>x <span class="ot">&lt;-</span> <span class="fu">seq_along</span>(SIZES)</span>
+<span id="cb2-29"><a href="#cb2-29" tabindex="-1"></a><span class="fu">plot</span>(x, <span class="at">ylim =</span> <span class="fu">c</span>(<span class="dv">0</span>,<span class="dv">1</span>), <span class="at">col =</span> <span class="st">&quot;white&quot;</span>, <span class="at">ylab =</span> <span class="fu">sprintf</span>(<span class="st">&quot;False positive rate (p &lt; 1/Niter = %.4g)&quot;</span>, alpha),</span>
+<span id="cb2-30"><a href="#cb2-30" tabindex="-1"></a>     <span class="at">xlab =</span> <span class="st">&quot;Number of samples&quot;</span>, <span class="at">yaxt =</span> <span class="st">&quot;n&quot;</span>, <span class="at">xaxt =</span> <span class="st">&quot;n&quot;</span>)</span>
+<span id="cb2-31"><a href="#cb2-31" tabindex="-1"></a><span class="fu">title</span>(<span class="st">&quot;Phenotype–signature confounding (background estimated from silent mutations)&quot;</span>)</span>
+<span id="cb2-32"><a href="#cb2-32" tabindex="-1"></a><span class="fu">axis</span>(<span class="dv">2</span>, <span class="at">at =</span> <span class="fu">seq</span>(<span class="dv">0</span>,<span class="dv">1</span>,<span class="fl">0.1</span>), <span class="at">las =</span> <span class="dv">2</span>); <span class="fu">axis</span>(<span class="dv">1</span>, <span class="at">at =</span> x, <span class="at">labels =</span> SIZES); <span class="fu">grid</span>()</span>
+<span id="cb2-33"><a href="#cb2-33" tabindex="-1"></a><span class="fu">abline</span>(<span class="at">h =</span> alpha, <span class="at">lty =</span> <span class="dv">3</span>, <span class="at">col =</span> <span class="st">&quot;grey60&quot;</span>)</span>
+<span id="cb2-34"><a href="#cb2-34" tabindex="-1"></a><span class="cf">for</span> (r <span class="cf">in</span> <span class="dv">1</span><span class="sc">:</span><span class="dv">7</span>) { <span class="fu">lines</span>(x, outdt[r,], <span class="at">col =</span> mycol[r]); <span class="fu">points</span>(x, outdt[r,], <span class="at">col =</span> mycol[r], <span class="at">pch =</span> mypch[r], <span class="at">cex =</span> <span class="fl">1.3</span>) }</span>
+<span id="cb2-35"><a href="#cb2-35" tabindex="-1"></a><span class="fu">legend</span>(<span class="st">&quot;topleft&quot;</span>, <span class="fu">rownames</span>(outdt), <span class="at">col =</span> mycol, <span class="at">lwd =</span> <span class="dv">1</span>, <span class="at">bty =</span> <span class="st">&quot;n&quot;</span>, <span class="at">lty =</span> <span class="cn">NA</span>, <span class="at">pch =</span> mypch)</span></code></pre></div>
 <p><img src="figure/Simulation-BMR.Rmd/keyresult-1.png" alt="" width="672" style="display: block; margin: auto;" /></p>
+<p>
+<button type="button" class="btn btn-default btn-xs btn-workflowr btn-workflowr-fig" data-toggle="collapse" data-target="#fig-keyresult-1">
+Past versions of keyresult-1.png
+</button>
+</p>
+<div id="fig-keyresult-1" class="collapse">
+<div class="table-responsive">
+<table class="table table-condensed table-hover">
+<thead>
+<tr>
+<th>
+Version
+</th>
+<th>
+Author
+</th>
+<th>
+Date
+</th>
+</tr>
+</thead>
+<tbody>
+<tr>
+<td>
+<a href="https://github.com/szhaolab/DiffDriver-PAPER/blob/2a3270efd6818b22acfc7cd58ea1db2f2b6cdacd/docs/figure/Simulation-BMR.Rmd/keyresult-1.png" target="_blank">2a3270e</a>
+</td>
+<td>
+Siming
+</td>
+<td>
+2026-07-26
+</td>
+</tr>
+</tbody>
+</table>
+</div>
+</div>
 <p>DiffDriver and coselens keep the false positive rate near zero even
 though they must <em>estimate</em> the confounded background from a
 finite silent spectrum — the estimation does not reintroduce the
